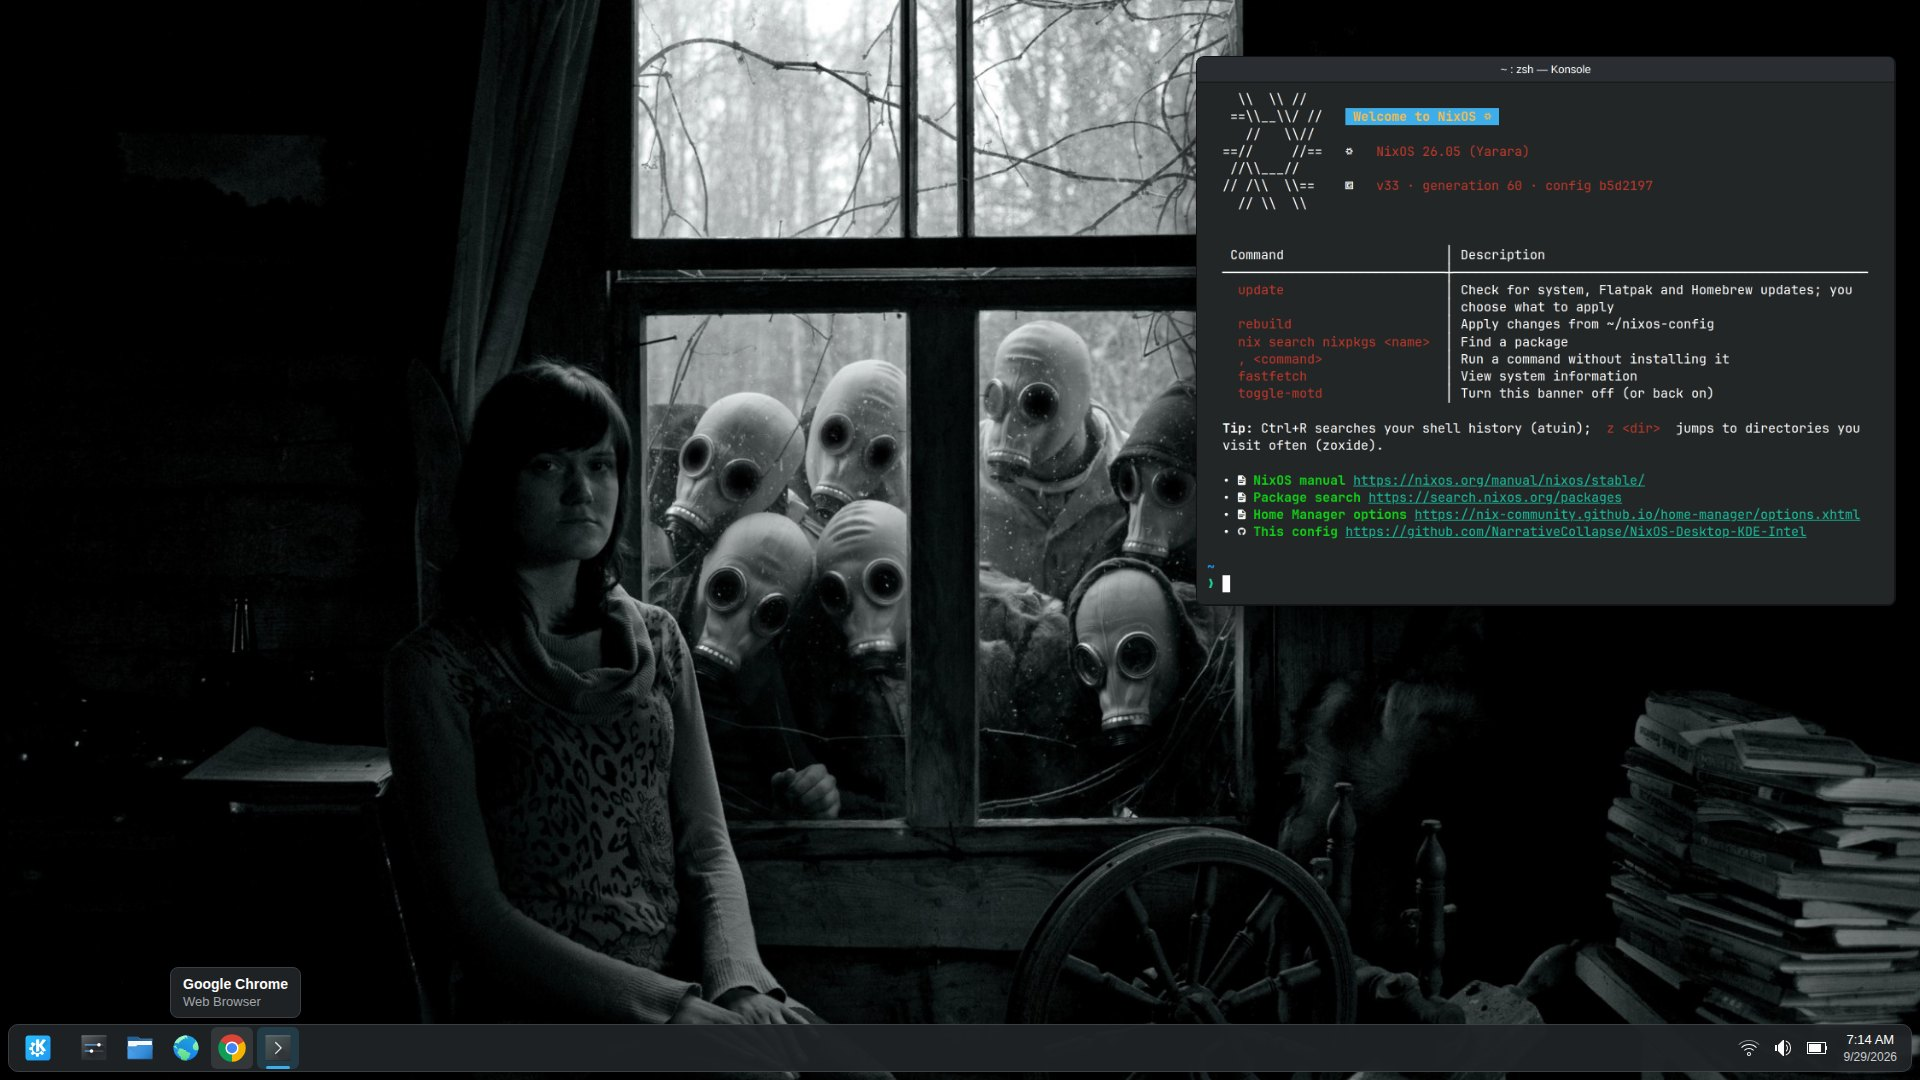
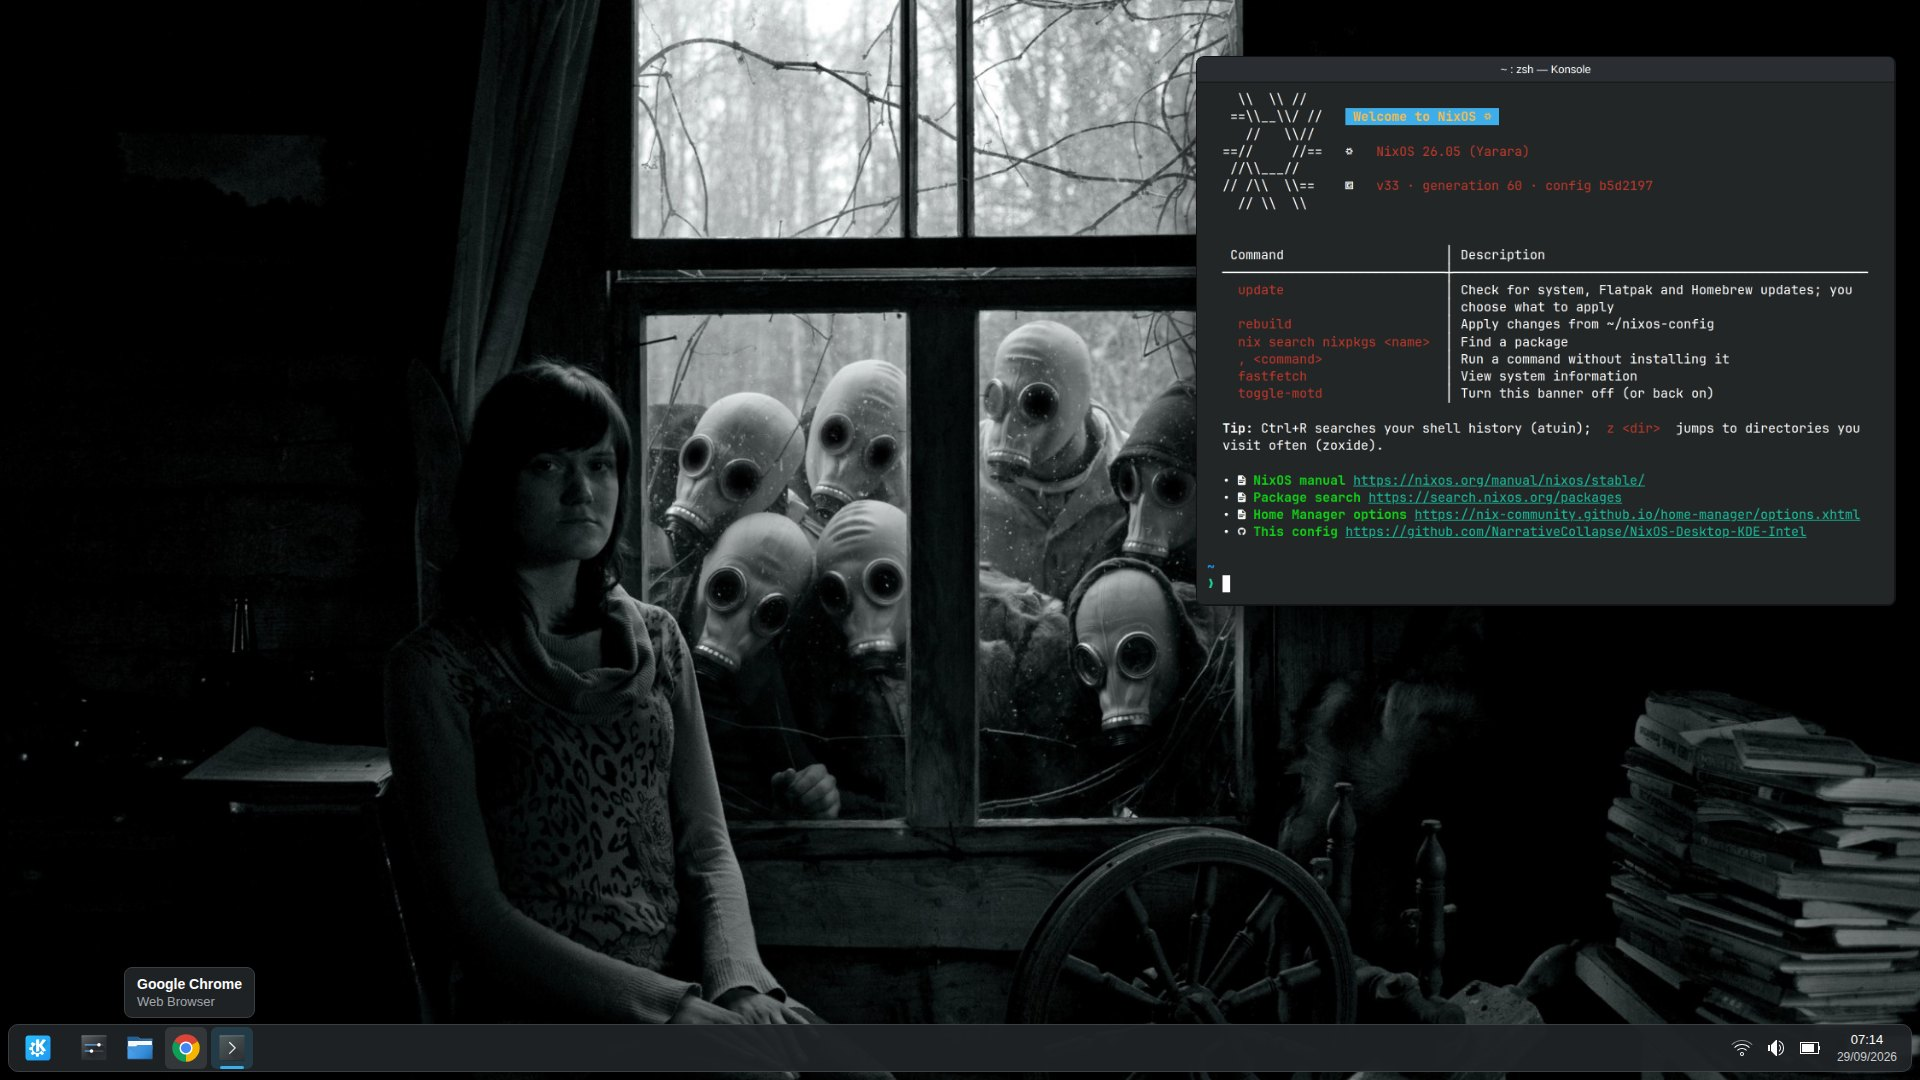
feat: 24-hour time everywhere; unpin the default-browser launcher (v41)
- i18n.extraLocaleSettings.LC_TIME = en_GB.UTF-8: 24-hour clock in
  Plasma, the lock and login screens, apps and `date` (short dates become
  day/month).
- The taskbar desktop script (renamed pin-chrome -> taskbar) also removes
  preferred://browser (the LibreWolf launcher shown as a globe; LibreWolf
  stays installed) and sets the digital clock's use24hFormat=2.
- README: screenshot re-rendered (no globe, 24-hour clock) and the
  taskbar/time changes explained.

Claude-Session: https://claude.ai/code/session_012zc3uoWZdh13ef544Wr7e5

Changed region(s): [[0.0625, 0.8861, 0.1562, 1.0], [0.9062, 0.9472, 1.0, 0.9778]]

diff --git a/README.md b/README.md
@@ -4,13 +4,13 @@ Austin's flake-based NixOS 26.05 + Home Manager config for **shitbox**, an
 HP Laptop 14-ep0xxx (Intel Gen12 graphics, LUKS-encrypted NVMe) running
 Plasma 6.
 
-**Current version: v40** (git tag `v40`). See [Versions](#versions).
+**Current version: v41** (git tag `v41`). See [Versions](#versions).
 
-<img src="docs/screenshots/desktop.jpg" alt="The desktop: the gas-masks wallpaper, Konsole showing the welcome banner, and a Breeze Dark taskbar with System Settings, Dolphin, the browser, Google Chrome (pinned, tooltip shown) and Konsole" width="820">
+<img src="docs/screenshots/desktop.jpg" alt="The desktop: the gas-masks wallpaper, Konsole showing the welcome banner, and a Breeze Dark taskbar with System Settings, Dolphin, Google Chrome (pinned, tooltip shown) and Konsole, and a 24-hour clock" width="820">
 
 <sub>An example of the desktop this config sets up: Breeze Dark, the default
-wallpaper, the welcome banner in Konsole, and Google Chrome pinned to the
-taskbar. It's a rendered mockup, not a photo of the laptop; the real
+wallpaper, the welcome banner in Konsole, Google Chrome pinned to the
+taskbar, and the 24-hour clock. It's a rendered mockup, not a photo of the laptop; the real
 taskbar icons, tray and exact layout may differ.</sub>
 
 ## What's in it
@@ -21,7 +21,8 @@ taskbar icons, tray and exact layout may differ.</sub>
   Plasma/Konsole settings in the config (plasma-manager); extra wallpapers
   built into the system, with one set on the desktop, lock and login
   screens; Bluetooth via Plasma's BlueDevil; printing with automatic
-  network-printer discovery (Avahi/mDNS); Noto + JetBrains Mono Nerd Font.
+  network-printer discovery (Avahi/mDNS); Noto + JetBrains Mono Nerd Font;
+  24-hour time throughout.
   Plasma defaults nothing here uses are left out (see `modules/desktop.nix`):
   the Orca screen reader and text-to-speech, the KDE PIM backend (Akonadi),
   the X11 session, Elisa, the Help Center, the remote desktop server, the
@@ -472,13 +473,22 @@ What it sets now:
   `modules/desktop.nix`; see [Wallpapers](#wallpapers)).
 - **Konsole**: a profile named "NixOS" (Breeze colors, JetBrainsMono Nerd
   Font Mono 11), made Konsole's default.
-- **Google Chrome pinned to the taskbar.** Declaring the panel itself would
-  replace your whole panel layout, so instead a small Plasma script
-  (`pin-chrome` in `plasma.nix`) finds your existing taskbar and adds the
-  Chrome launcher to it, touching nothing else. It runs at the first login
-  after a rebuild that changes it, so if you unpin Chrome by hand later, it
-  stays unpinned. The icon appears once the Chrome Flatpak has finished
-  installing (in the background, after the first boot of the new version).
+- **Taskbar tweaks.** Declaring the panel itself would replace your whole
+  panel layout, so instead a small Plasma script (`taskbar` in
+  `plasma.nix`) edits the existing taskbar, touching nothing else:
+  - pins **Google Chrome** (the Flatpak). The icon appears once the Chrome
+    Flatpak has finished installing, in the background after the first
+    boot of the new version;
+  - unpins Plasma's **default web browser** launcher, the globe-like icon
+    that opens LibreWolf. LibreWolf stays installed and in the app menu;
+  - sets the taskbar clock to **24-hour** time. The whole system uses
+    24-hour time too (lock and login screens, apps, `date`), via
+    `i18n.extraLocaleSettings.LC_TIME = "en_GB.UTF-8"` in
+    `modules/base.nix`; that also makes short dates day/month
+    (29/09/2026). Delete that line to go back to 12-hour US time.
+
+  It runs at the first login after a rebuild that changes it, so changes
+  you make to the taskbar by hand afterwards stay.
 - It explicitly writes nothing to KRunner's web-shortcut settings, which
   plasma-manager would otherwise reset.
 
@@ -566,7 +576,8 @@ top of this README doesn't match it.
 
 | Version | Highlights |
 | --- | --- |
-| **v40** | Google Chrome pinned to the taskbar (added to the existing panel, nothing else changed); example desktop screenshot at the top of the README. |
+| **v41** | 24-hour time everywhere (`LC_TIME` = en_GB: taskbar, lock and login screens, apps, `date`; short dates become day/month); the default-browser (LibreWolf) launcher unpinned from the taskbar; README screenshot updated. |
+| v40 | Google Chrome pinned to the taskbar (added to the existing panel, nothing else changed); example desktop screenshot at the top of the README. |
 | v39 | Discover removed: Bazaar is the app store, `update` handles Flatpak and firmware updates, and there's no more update-notifier pop-up. |
 | v38 | Leaner: Wayland only (no X11 session), and the unused Plasma Help Center, remote desktop server, QR scanner and touch keyboard, plus vifm and wget, removed. Welcome banner skipped inside containers. Backups: each check re-reads 2% of the data, and `backup-test` does a real test restore. |
 | v37 | Flatpak: Bazaar, the Flathub app store Bazzite and Bluefin use. |
